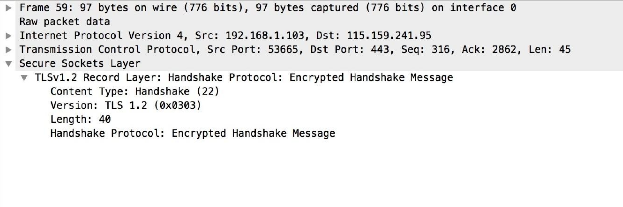
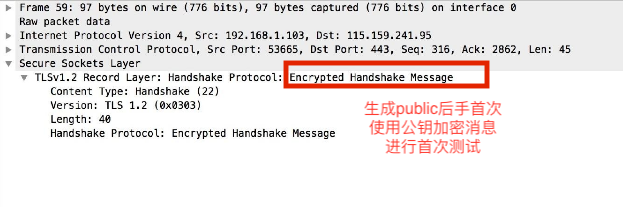
https

Changed region(s): [[0.5795, 0.4928, 0.8234, 0.7536], [0.427, 0.2899, 0.7929, 0.4348]]

diff --git a/network/http/https.md b/network/http/https.md
@@ -1,0 +1,124 @@
+# HTTPS加密流程
+![](/blog_assets/https_cover.png)
+___
+### what is https
+1⃣ `https` 全称 `(Hyper Text Transfer Protocol over Secure Socket Layer)`，也就是在原`http`协议下，添加`SSL(Secure Socket Layer)`层
+2⃣ `https`最大的亮点就是`SSL`层加对数据的加密
+
+### why use https?
+> 💸 从原来的`http`协议缺点来看：
+
+   1⃣ 传输的时候使用明文传参，极其容易被第三方截取
+   2⃣ 没有访问发起者的身份认证机制，第三方即可以十分容易地使用终端发起大量伪请求
+   3⃣ 报文段被部分篡改，服务器端也无法识别
+
+### HTTPS 与 HTTP的不同点
+1⃣ `http` 的`URL` 以`http://` 开头，`https`以`https://` 开头
+2⃣ `HTTP`采用的是明文传输，而`HTTPS`使用的是`SSL\TSL`进行加密传输
+3⃣ `HTTP`的默认端口是`80`，而`HTTPS`的默认端口是`443`
+4⃣ `HTTPS` 需要`CA`证书，`http`不需要。
+5⃣ http 的连接很简单,是无状态的，`https`协议是由`SSL+http`协议构建的可进行加密传输、身份认证的网络协议 要比`http`协议安全
+
+
+### 对称加密 和 非对称加密
+1⃣ 非对称加密的`公钥`只能够用于加密，非对称加密的`私钥`既能加密也能够解密
+2⃣ 对称加密速度快，可以加密的信息量较大
+3⃣ 非对称加密算法复杂，加密解密速度慢，一般用于少量信息加密
+  
+### HTTPS的劣势
+1⃣ 因为加密的需要，常见的三握手就要多几个来回
+2⃣ 对服务器的负载增加
+3⃣  因为对传输进行加密，会一定程度增加cpu消耗。
+4⃣ 由于https 要还密钥和确认加密算法的需要，所以首次建立连接会慢一些。
+5⃣ 带宽消耗会增加。
+
+### `SSL`与`TSL`
+___
+1⃣ `SSL`（Security Socket Layer）是一种广泛运用在互联网上的资料加密协议；`TLS`是`SSL`的下一代协议。  
+2⃣ `SSL`证书 (Certificate) 像身分证一般可以在互联网上证明自己的身份。在资料的加密传输开始之前，服务器透过“有效”的`SSL`证书告诉用户端自己是值得信赖的服务器  
+3⃣ 目前`SSL`大部分是收费的，但是自己生成的`SSL`证书又不能被浏览器所信任，即不安全。
+
+### SSL\TSL 握手流程
+___
+
+#### 1⃣ Client Hello 
+> 客户端向服务器发送准备链接的信息(相当于打招呼), 并且告诉服务器自己支持哪些加密套件
+##### 参数：
+  * 随机数 Random1
+  * 客户端支持的加密套件（Support Ciphers）
+
+![client_hello](/blog_assets/client_hello.png)
+
+
+#### 2⃣ Server Hello 
+> 服务器响应 客户端的打招呼，返回包括 
+##### 参数 
+   * 服务器从客户端发过来的套件中，选择了具体的一个加密套件 
+   * 随机数 `Random2`
+
+ ![client_hello](/blog_assets/server_hello.png)
+
+#### 3⃣ Certificate
+> 这一步是服务端将自己的证书下发给客户端，让客户端验证自己的身份，客户端验证通过后取出证书中的公钥。
+##### 参数
+* (服务端 ==>  客户端 )证书
+* 客户端取出证书中的公钥
+
+![证书](/blog_assets/certificate.jpg)
+
+#### 4⃣ Certificate Request & Server Hello Done
+> Certificate Request 是服务端要求客户端上报证书（可选）
+
+> Server Hello Done 通知客户端 Server Hello 过程结束
+
+
+#### 5⃣ Certificate Verify  & Client Key Exchange
+* 客户端先从 CA 验证该证书的合法性(正规的根CA机构证书，会内置在OS内)
+* 验证通过后取出证书中的服务端公钥，再生成一个随机数 Random3
+* 再用服务端公钥非对称加密 Random3 生成 `PreMaster Key`。
+  > 注意：这里若证书合法性验证失败，则会告知用户改证书有风险。
+##### 参数
+* `PreMaster Key`：它的生成用的是服务端下载的证书中给的公钥，这里采用的是`非对称加密`
+* 使用加密套件加密的三个值混合之后的结果，这里采用的是对称加密。
+
+![key](/blog_assets/key_exchange.png)
+
+<font color="red" >至此，使用之前生成的(random1 + random2 + pre-master)随机数,再使用共同确认的加密算法，生成的`key`，接下来准备开始双方测试加密传输。</font>
+
+
+#### 6⃣ Change Cipher Spec & Encrypted Handshake Message （客户端测试加密连接）
+> 首先是客户端通知服务端后面再发送的消息都会使用前面协商出来的秘钥加密了，是一条事件消息。
+
+> 再是客户端将前面的握手消息生成摘要再用协商好的秘钥加密，这是客户端发出的第一条加密消息。
+
+![key](/blog_assets/clicent_check.png)
+
+
+#### 7⃣ Change Cipher Spec & Encrypted Handshake Message （服务端测试加密连接）
+>首先是服务端通知客户端后面再发送的消息都会使用加密，也是一条事件消息
+
+>再是服务端也会将握手过程的消息生成摘要再用秘钥加密，这是服务端发出的第一条加密消息
+
+![](/blog_assets/server_check.png)
+   * 使用加密套件的私钥进行解密，获得随机数
+   * 服务端使用对称加密算法，对获取到的随机数进行对称加密，得到“指定加密算法” + “随机生成数” 结合的一个特殊令牌
+   * 服务器使用这个令牌加密需要保护的内容主体，一并发送给客户端
+   
+#### 8⃣ 正式发送加密数据 
+  * 使用`public key`正式进行加密数据传输
+___
+### 握手过程优化
+并不是每一次的传输都需要进行这么繁杂的握手过程，每隔一定的时间才回进行重新SSL握手。
+首次的`client hello`就附带了上一次的`session ID`,服务端接受到这个session  ID,若能够复用则不进行重新握手。
+![](/blog_assets/https_sessionId.png)
+___
+### 总览
+![https](/blog_assets/https_handshakes.jpg)
+
+
+___
+### 参考文章
+[SSL/TLS 握手过程详解]
+[从http 到 https项目迁移](/network/http/https_onwork.md)
+
+

diff --git a/README.md b/README.md
@@ -79,7 +79,7 @@
 | 序号 | 标题 | 其他 |
 | :------| :------: | :------: |
 | 1 | [HTTPS原理🔱](/network/https.md)| 原创 + 📒 |
-| 1 | [HTTP 2.0🔱](/network/http2.0.md)| 原创 + 📒 |
+| 1 | [HTTP 2.0🔱](/network/http/http2.0.md)|  |
 | 1 | [HTTP_状态码](/network/status_code.md)| 原创 + 📒 |
 | 1 | [浏览器页面渲染一二三](/network/how_browser_work.md)| 原创 + 📒 |
 | 1 | [跨域abc](/network/CORS.md)| 原创 + 📒 |

diff --git a/others/CORS_ON_WORK.md b/others/CORS_ON_WORK.md
@@ -91,5 +91,3 @@ server.listen(9527,()=>{
      console.log('the server is running at http://localhost:9527');
 },)
 ```
-#### 服务端代码
-* 
